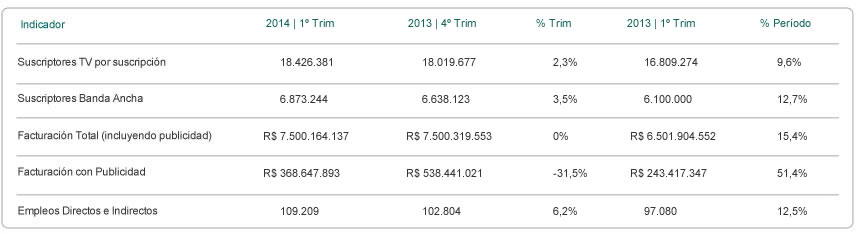
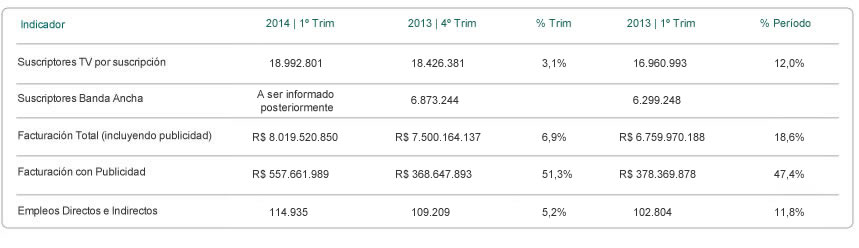
Alterações dados do setor

diff --git a/jsGraficos/graficos.js b/jsGraficos/graficos.js
@@ -11,7 +11,7 @@ $(function () {
         colors:['#020167','#1D3C7D','#264412','#49782A','#5A9332','#D4960F'],
         
         xAxis: {
-            categories: ['2002','2003','2004','2005','2006','2007','2008','2009','2010','2011','2012','2013','1T 2014']
+            categories: ['2002','2003','2004','2005','2006','2007','2008','2009','2010','2011','2012','2013','2T 2014']
         },
         yAxis: {            
             title: {
@@ -62,7 +62,7 @@ $(function () {
         },
         {
             name: 'Δ2T',
-            data: [null,null,null,null,null,null,null,null,null,null,null,0.1,null]
+            data: [null,null,null,null,null,null,null,null,null,null,null,0.1,0.6]
         },
             {
             name: 'Δ1T',
@@ -112,8 +112,8 @@ $(function () {
             type: 'pie',
             name: 'Assinantes por tecnologia',
             data: [
-                ['Cabo 7,0',   7.0],
-                ['DTH 11,4',  11.4],
+                ['Cabo 7.183',   7.183],
+                ['DTH 11.731',  11.731],
             ]
         }]
     });
@@ -130,7 +130,7 @@ $(function () {
             zoomType:'xy',
         },
         title: {
-            text: 'Evolução do número de assinantes banda larga (em milhões)'
+            text: 'Evolução do número de assinantes banda larga (em milhões) - Em breve, dados do 2º trimestre.'
         },
         colors:['#020167','#1D3C7D','#264412','#49782A','#5A9332','#D4960F'],
         
@@ -220,7 +220,7 @@ $(function () {
         colors:['#020167','#1D3C7D','#264412','#49782A','#5A9332','#D4960F'],
         
         xAxis: {
-            categories: ['2002','2003','2004','2005','2006','2007','2008','2009','2010','2011','2012','2013','1T 2014']
+            categories: ['2002','2003','2004','2005','2006','2007','2008','2009','2010','2011','2012','2013','2T 2014']
         },
         yAxis: {            
             title: {
@@ -276,7 +276,7 @@ $(function () {
         },
         {
             name: 'Δ2T - Operadores',
-            data: [null,null,null,null,null,null,null,null,null,null,null,6.3,null]
+            data: [null,null,null,null,null,null,null,null,null,null,null,6.3,7.5]
         },
             {
             name: 'Δ1T - Operadores',
@@ -310,7 +310,7 @@ $(function () {
         colors:['#020167','#1D3C7D','#264412','#49782A','#5A9332','#D4960F'],
         
         xAxis: {
-            categories: ['2002','2003','2004','2005','2006','2007','2008','2009','2010','2011','2012','2013','1T 2014']
+            categories: ['2002','2003','2004','2005','2006','2007','2008','2009','2010','2011','2012','2013','2T 2014']
         },
         yAxis: {            
             title: {
@@ -372,7 +372,7 @@ $(function () {
         },
         {
             name: 'Δ2T',
-            data: [null,null,null,null,null,null,null,null,null,null,null,0.4,null]
+            data: [null,null,null,null,null,null,null,null,null,null,null,0.4,0.6]
         },
             {
             name: 'Δ1T',
@@ -412,7 +412,7 @@ $(function () {
         colors:['#020167','#1D3C7D','#264412','#49782A','#5A9332','#D4960F'],
         
         xAxis: {
-            categories: ['2002','2003','2004','2005','2006','2007','2008','2009','2010','2011','2012','2013','1T 2014']
+            categories: ['2002','2003','2004','2005','2006','2007','2008','2009','2010','2011','2012','2013','2T 2014']
         },
         yAxis: {            
             title: {
@@ -464,7 +464,7 @@ $(function () {
             
             {
             name: 'Terceiros',
-            data: [24,24,24,29,33,41,51,56,69,70,71,77,84]
+            data: [24,24,24,29,33,41,51,56,69,70,71,77,90]
               
         },
             {

diff --git a/jsGraficos/graficos_vg.js b/jsGraficos/graficos_vg.js
@@ -11,7 +11,7 @@ $(function () {
         colors:['#020167','#1D3C7D','#264412','#49782A','#5A9332','#D4960F'],
         
         xAxis: {
-            categories: ['2002','2003','2004','2005','2006','2007','2008','2009','2010','2011','2012','2013','1T 2014']
+            categories: ['2002','2003','2004','2005','2006','2007','2008','2009','2010','2011','2012','2013','2T 2014']
         },
         yAxis: {            
             title: {
@@ -65,7 +65,7 @@ $(function () {
         },
         {
             name: 'Δ2T',
-            data: [null,null,null,null,null,null,null,null,null,null,null,0.1,null]
+            data: [null,null,null,null,null,null,null,null,null,null,null,0.1,0.6]
         },
             {
             name: 'Δ1T',
@@ -117,8 +117,8 @@ $(function () {
             type: 'pie',
             name: 'Assinantes por tecnologia',
             data: [
-                ['Cabo 7,0',   7.0],
-                ['DTH 11,4',  11.4],
+                ['Cabo 7.183',   7.183],
+                ['DTH 11.731',  11.731],
             ]
         }]
     });
@@ -135,7 +135,7 @@ $(function () {
             zoomType:'xy',
         },
         title: {
-            text: 'Suscriptores Internet Banda Ancha (en millones)'
+            text: 'Suscriptores Internet Banda Ancha (en millones) - En resumen, los datos del segundo trimestre.'
         },
         colors:['#020167','#1D3C7D','#264412','#49782A','#5A9332','#D4960F'],
         
@@ -232,7 +232,7 @@ $(function () {
         colors:['#020167','#1D3C7D','#264412','#49782A','#5A9332','#D4960F'],
         
         xAxis: {
-            categories: ['2002','2003','2004','2005','2006','2007','2008','2009','2010','2011','2012','2013','1T 2014']
+            categories: ['2002','2003','2004','2005','2006','2007','2008','2009','2010','2011','2012','2013','2T 2014']
         },
         yAxis: {            
             title: {
@@ -293,7 +293,7 @@ $(function () {
         },
         {
             name: 'Δ2T - Operadores',
-            data: [null,null,null,null,null,null,null,null,null,null,null,6.3,null]
+            data: [null,null,null,null,null,null,null,null,null,null,null,6.3,7.5]
         },
             {
             name: 'Δ1T - Operadores',
@@ -335,7 +335,7 @@ $(function () {
         colors:['#020167','#1D3C7D','#264412','#49782A','#5A9332','#D4960F'],
         
         xAxis: {
-            categories: ['2002','2003','2004','2005','2006','2007','2008','2009','2010','2011','2012','2013','1T 2014']
+            categories: ['2002','2003','2004','2005','2006','2007','2008','2009','2010','2011','2012','2013','2T 2014']
         },
         yAxis: {            
             title: {
@@ -387,7 +387,7 @@ $(function () {
             
             {
             name: 'Terceiros',
-            data: [24,24,24,29,33,41,51,56,69,70,71,77,84]
+            data: [24,24,24,29,33,41,51,56,69,70,71,77,90]
               
         },
             {

diff --git a/jsGraficos/graficos_ovv.js b/jsGraficos/graficos_ovv.js
@@ -11,7 +11,7 @@ $(function () {
         colors:['#020167','#1D3C7D','#264412','#49782A','#5A9332','#D4960F'],
         
         xAxis: {
-            categories: ['2002','2003','2004','2005','2006','2007','2008','2009','2010','2011','2012','2013','1T 2014']
+            categories: ['2002','2003','2004','2005','2006','2007','2008','2009','2010','2011','2012','2013','2T 2014']
         },
         yAxis: {            
             title: {
@@ -65,7 +65,7 @@ $(function () {
         },
         {
             name: 'Δ2T',
-            data: [null,null,null,null,null,null,null,null,null,null,null,0.1,null]
+            data: [null,null,null,null,null,null,null,null,null,null,null,0.1,0.6]
         },
             {
             name: 'Δ1T',
@@ -117,8 +117,8 @@ $(function () {
             type: 'pie',
             name: 'Assinantes por tecnologia',
             data: [
-                ['Cabo 7,0',   7.0],
-                ['DTH 11,4',  11.4],
+                ['Cabo 7.183',   7.183],
+                ['DTH 11.731',  11.731],
             ]
         }]
     });
@@ -135,7 +135,7 @@ $(function () {
             zoomType:'xy',
         },
         title: {
-            text: 'Evolution of the Number of Broadband Subscribers'
+            text: 'Evolution of the Number of Broadband Subscribers - In brief, data from the 2nd quarter.'
         },
         colors:['#020167','#1D3C7D','#264412','#49782A','#5A9332','#D4960F'],
         
@@ -231,7 +231,7 @@ $(function () {
         colors:['#020167','#1D3C7D','#264412','#49782A','#5A9332','#D4960F'],
         
         xAxis: {
-            categories: ['2002','2003','2004','2005','2006','2007','2008','2009','2010','2011','2012','2013','1T 2014']
+            categories: ['2002','2003','2004','2005','2006','2007','2008','2009','2010','2011','2012','2013','2T 2014']
         },
         yAxis: {            
             title: {
@@ -291,7 +291,7 @@ $(function () {
         },
         {
             name: 'Δ2T - Operadores',
-            data: [null,null,null,null,null,null,null,null,null,null,null,6.3,null]
+            data: [null,null,null,null,null,null,null,null,null,null,null,6.3,7.5]
         },
             {
             name: 'Δ1T - Operadores',
@@ -337,7 +337,7 @@ $(function () {
         colors:['#020167','#1D3C7D','#264412','#49782A','#5A9332','#D4960F'],
         
         xAxis: {
-            categories: ['2002','2003','2004','2005','2006','2007','2008','2009','2010','2011','2012','2013','1T 2014']
+            categories: ['2002','2003','2004','2005','2006','2007','2008','2009','2010','2011','2012','2013','2T 2014']
         },
         yAxis: {            
             title: {
@@ -389,7 +389,7 @@ $(function () {
             
             {
             name: 'Terceiros',
-            data: [24,24,24,29,33,41,51,56,69,70,71,77,84]
+            data: [24,24,24,29,33,41,51,56,69,70,71,77,90]
               
         },
             {
